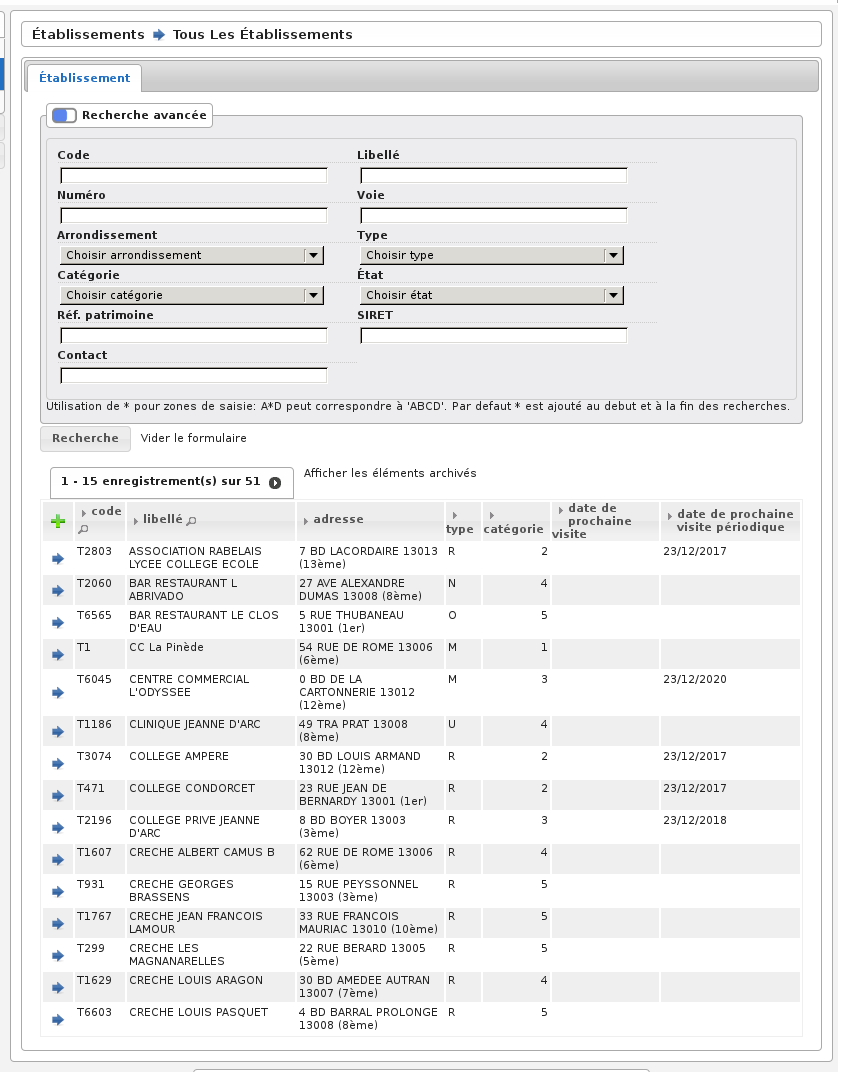
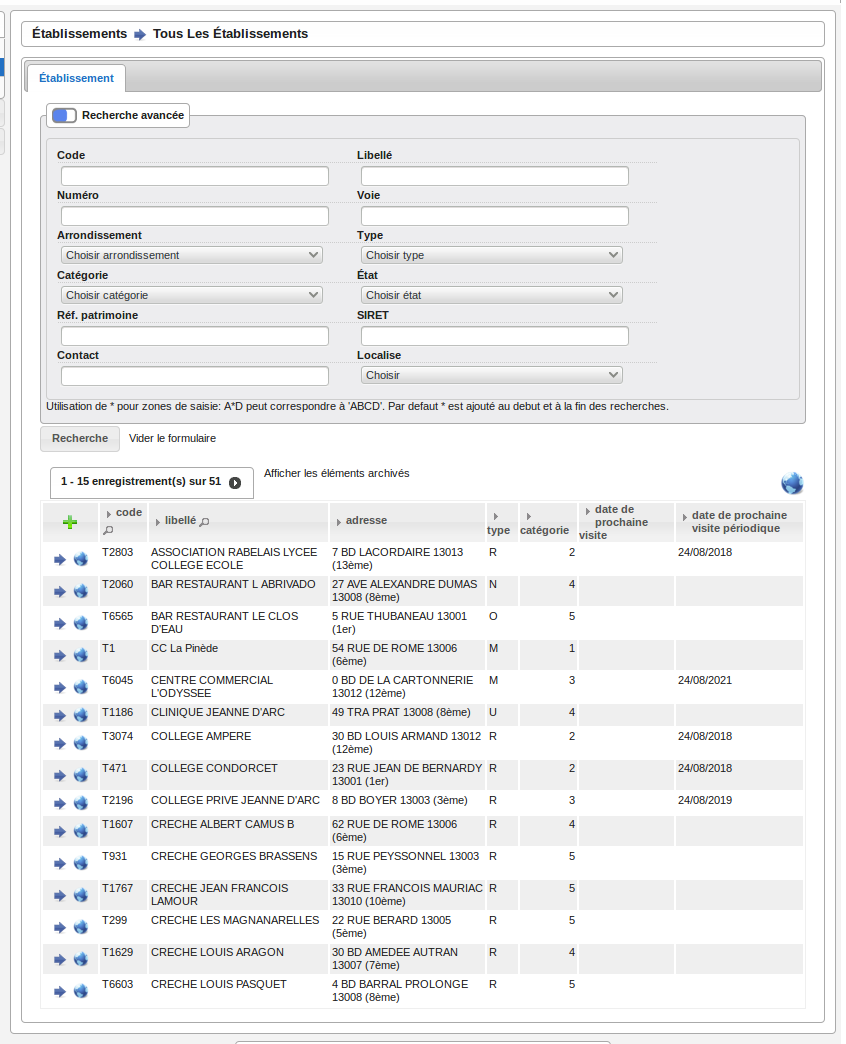
Ajout de la documentation sur les fonctionnalités de géolocalisation et de redirection vers le SIG

diff --git a/source/manuel_utilisateur/dossiers/index.rst b/source/manuel_utilisateur/dossiers/index.rst
@@ -38,6 +38,11 @@ Tous les dossiers
 
 Ce listing présente tous les dossiers de coordination.
 
+Lorsqu'un Système d'Information Géographique est paramétré, l'icône en forme de Terre au-dessus du tableau permet d'être redirigé vers le SIG et de consulter la sélection actuelle de dossiers de coordination. S'il n'y a pas eu de recherche avancée, le bouton redirige vers la couche des dossiers de coordination sur le SIG.
+
+Les icônes en forme de Terre de chaque ligne du tableau permettent d'être redirigé sur le SIG avec la vue centrée sur le dossier de coordination correspondant à cette ligne.
+
+.. image:: dossier_coordination-listing.png
 
 Ajouter un nouveau DC
 ---------------------
@@ -59,6 +64,25 @@ La case à cocher "À qualifier" définit si un dossier doit être qualifié ou 
 
 La fiche du dossier de coordination (DC)
 ----------------------------------------
+
+.. image:: dossier_coordination-fiche.png
+
+Lorsqu'un Système d'Information Géographique est paramétré, les icônes en forme de Terre permettent d'être redirigé sur le SIG avec la vue centrée sur l'élément en question :
+
+- si le dossier a été géolocalisé, l'icône dans le champ "Géolocalisé" permet d'être redirigé sur l'établissement sur le SIG.
+- si l'établissement lié au dossier a été géolocalisé, on peut le visualiser sur le SIG en cliquant sur l'icône à côté du nom de l'établissement.
+- si des références cadastrales ont été renseignées, l'icône dans le champ références cadastrales permet de visualiser ces parcelles sur le SIG.
+
+Géolocaliser un dossier de coordination
+#######################################
+
+Si un SIG a été paramétré et que le dossier de coordination n'a pas déjà été géolocalisé, un bouton dans le portail d'actions contextuelles permet de le géolocaliser sur le SIG.
+
+.. image:: dossier_coordination-action-geocoder-link.png
+
+Cette géolocalisation se fait sur la base de l'adresse, des parcelles et du numéro de dossier ADS qui ont été renseignés. Si ces éléments ne permettent pas de géolocaliser automatiquement le dossier de coordination, un message sera affiché, qui contiendra un lien permettant à l'utilisateur de dessiner manuellement l'élément sur le SIG.
+
+Une fois ce dessin manuel effectué sur le SIG, il faut une nouvelle fois lancer l'action de géolocalisation du portail d'actions contextuelles pour valider le dessin manuel. En cas de succès, un message de validation apparaît.
 
 Onglet Contacts
 ###############
@@ -162,10 +186,16 @@ Tous les dossiers
 
 (:menuselection:`Dossiers --> DI (Instruction) --> Tous les dossiers`)
 
+Lorsqu'un Système d'Information Géographique est paramétré, les icônes en forme de Terre de chaque ligne du tableau permettent d'être redirigé sur le SIG avec la vue centrée sur le dossier de coordination lié à ce dossier d'instruction.
+
+.. image:: dossier_instruction-listing.png
 
 La fiche du dossier d'instruction (DI)
 --------------------------------------
 
+Lorsqu'un Système d'Information Géographique est paramétré et que le dossier de coordination lié à ce dossier d'instruction a été géolocalisé, l'icône en forme de Terre permet d'être redirigé sur le SIG avec la vue centrée sur le dossier de coordination lié.
+
+.. image:: dossier_instruction-fiche.png
 
 Actions
 #######
